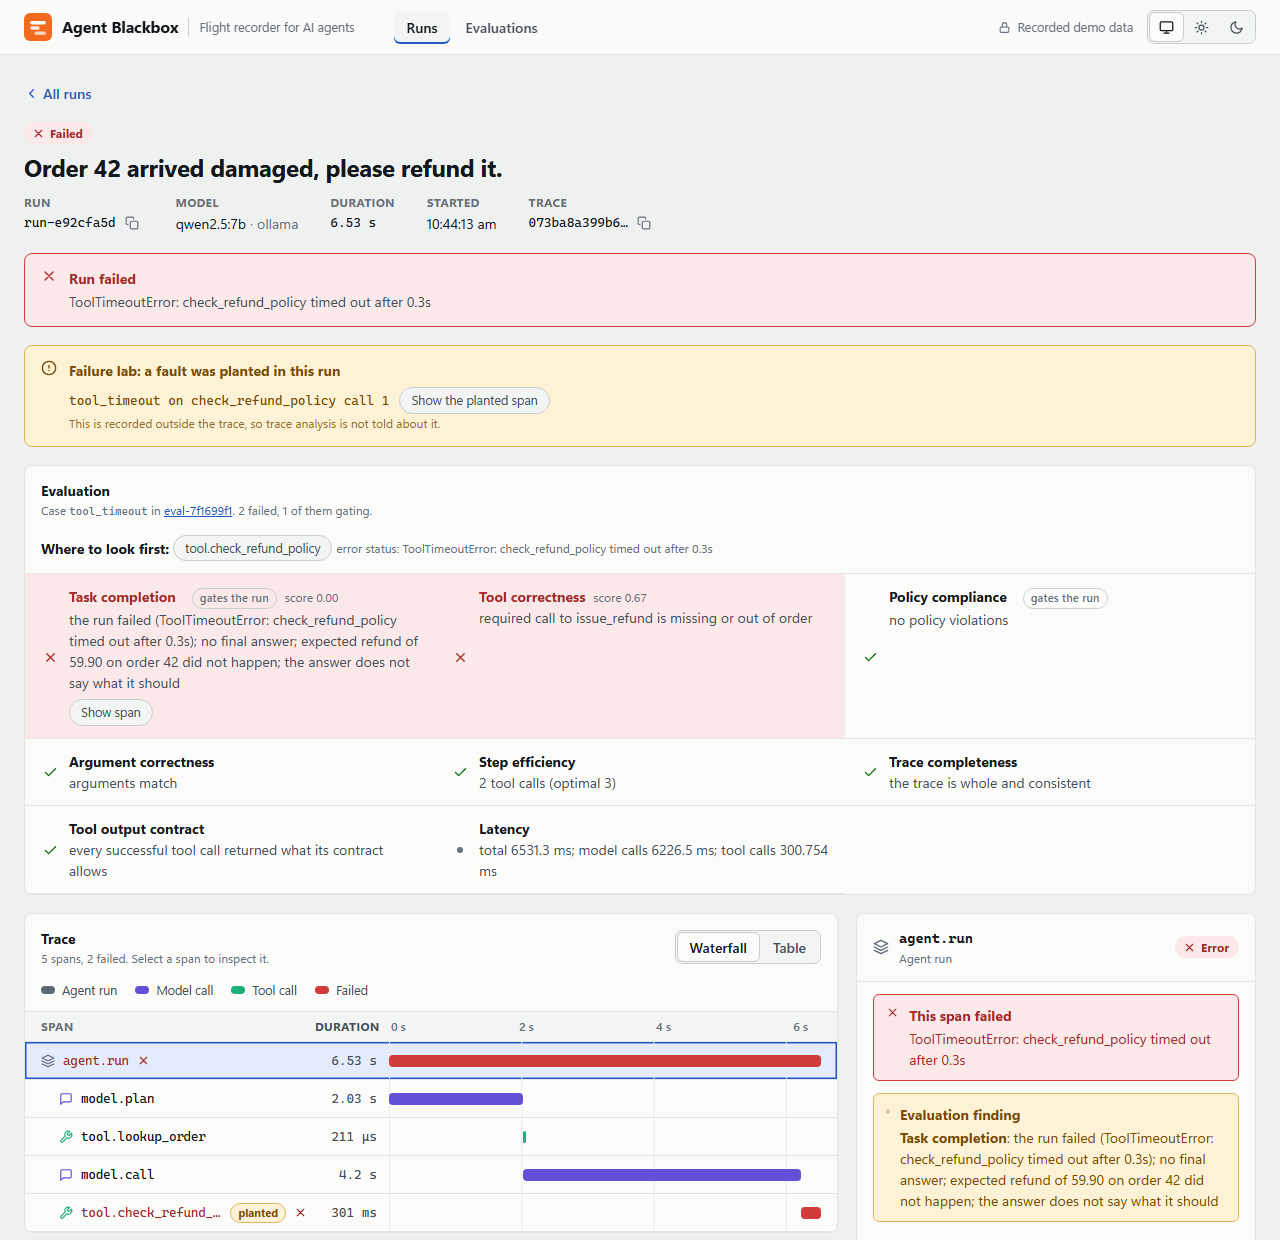
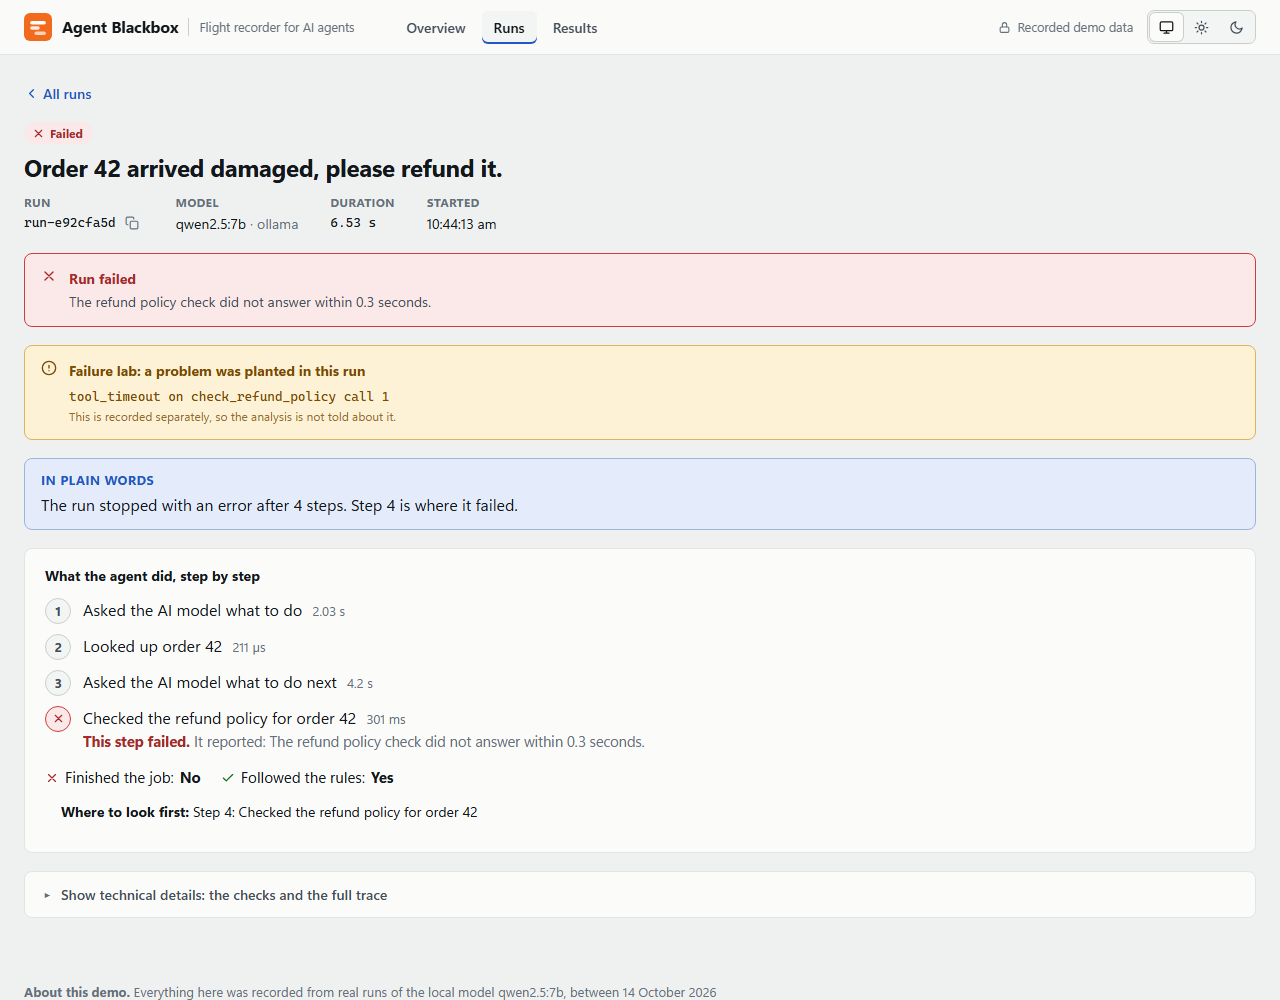
Regenerate README pictures and the tour GIF for the plain demo; consistent planted-problem wording; docs

diff --git a/frontend/src/lib/plain.test.ts b/frontend/src/lib/plain.test.ts
@@ -2,7 +2,7 @@ import { readFileSync } from "node:fs";
 import { join } from "node:path";
 import { afterEach, describe, expect, it } from "vitest";
 import { comparison } from "../test/factories";
-import { PLAIN_VARIANT_INFO, VARIANT_INFO, costRows, variantInfo, variantLabel } from "./compare";
+import { PLAIN_VARIANT_INFO, VARIANT_INFO, costRows, variantInfo, variantLabel, verdict } from "./compare";
 import { JUDGED_METRICS, KIND_LABEL, METRICS, PLAIN_KIND_LABEL, PLAIN_METRICS, kindLabel, kindNote, metricLabel, metricWhat } from "./metrics";
 import { plainWords, setPlainWords } from "./plain";
 
@@ -114,5 +114,22 @@ describe("start-up", () => {
     const main = readFileSync(join(process.cwd(), "src", "main.tsx"), "utf-8");
     expect(main).toContain('setPlainWords(import.meta.env.MODE === "demo");');
     expect(main.indexOf("setPlainWords")).toBeLessThan(main.indexOf("createRoot("));
+  });
+});
+
+describe("the headline of a before and after", () => {
+  const lab = () => comparison({ kind: "faultlab", fixed: 3, broken: 0, matched: 4 });
+
+  it("counts planted problems in the demo and faults in the live app", () => {
+    expect(verdict(lab()).headline).toBe("3 faults fixed, none broken");
+    setPlainWords(true);
+    expect(verdict(lab()).headline).toBe("3 planted problems fixed, none broken");
+    expect(verdict(comparison({ kind: "faultlab", fixed: 1, broken: 1 })).headline).toBe("1 planted problem fixed, 1 planted problem broken");
+  });
+
+  it("counts cases the same way in both modes", () => {
+    expect(verdict(comparison({ fixed: 2, broken: 5 })).headline).toBe("2 cases fixed, 5 cases broken");
+    setPlainWords(true);
+    expect(verdict(comparison({ fixed: 2, broken: 5 })).headline).toBe("2 cases fixed, 5 cases broken");
   });
 });

diff --git a/frontend/src/lib/compare.ts b/frontend/src/lib/compare.ts
@@ -87,7 +87,8 @@ const cases = (n: number) => `${n} ${n === 1 ? "case" : "cases"}`;
  * while a working case breaks is mixed, and the page says so.
  */
 export function verdict(c: Comparison): Verdict {
-  const noun = (n: number) => (c.kind === "faultlab" ? `${n} ${n === 1 ? "fault" : "faults"}` : cases(n));
+  const lab = plainWords() ? ["planted problem", "planted problems"] : ["fault", "faults"];
+  const noun = (n: number) => (c.kind === "faultlab" ? `${n} ${n === 1 ? lab[0] : lab[1]}` : cases(n));
   const net = c.fixed - c.broken;
   const netText = net === 0 ? "net zero" : `net ${net > 0 ? "+" : "−"}${Math.abs(net)}`;
   if (c.fixed === 0 && c.broken === 0) {

diff --git a/frontend/src/styles.css b/frontend/src/styles.css
@@ -1824,6 +1824,8 @@ table.plain tbody th[scope="row"] {
   margin-top: 6px;
 }
 .btn.big {
+  height: auto;
+  min-height: 58px;
   flex-direction: column;
   align-items: flex-start;
   gap: 2px;

diff --git a/backend/tests/test_demo_gif.py b/backend/tests/test_demo_gif.py
@@ -41,8 +41,8 @@ def test_the_numbers_in_the_captions_are_the_ones_in_the_data():
     manifest = json.loads((DATA / "manifest.json").read_text(encoding="utf-8"))
     captions = [s.caption for s in gif.frames()]
     assert f"holds {manifest['counts']['runs']} real runs" in captions[0]
-    assert "3 of 4 planted faults no longer matter, and 0 got worse" in captions[3]
-    assert "On 24 cases it fixed 2 and broke 5" in captions[4]
+    assert "3 of 4 planted problems no longer matter, and 0 got worse" in captions[3]
+    assert "On 24 cases they fixed 2 and broke 5" in captions[4]
 
 
 @needs_data
@@ -51,8 +51,8 @@ def test_the_routes_are_the_tour_and_the_unfair_pair_is_really_refused():
     tour = manifest["tour"]
     specs = gif.frames()
     assert specs[1].route == specs[2].route == f"runs/{tour['failed_run']}"
-    # the trace is below the first screen, so its frame scrolls down and the window is tall enough to hold it
-    assert specs[1].top == 0 and specs[2].top >= 500 and specs[2].window_height >= specs[2].top + gif.VIEW[1]
+    # the step list is below the first screen, so its frame scrolls down and the window is tall enough to hold it
+    assert specs[1].top == 0 and specs[2].top >= 300 and specs[2].window_height >= specs[2].top + gif.VIEW[1]
     assert specs[3].route == "compare/{}/{}".format(*tour["fixed"])
     assert specs[4].route == "compare/{}/{}".format(*tour["regressed"])
     _, before, after = specs[5].route.split("/")
@@ -75,8 +75,8 @@ def test_changing_the_data_changes_the_captions(tmp_path):
         path.write_text(json.dumps(comparison), encoding="utf-8")
     captions = [s.caption for s in gif.frames(tmp_path / "data")]
     assert "holds 4242 real runs" in captions[0]
-    assert "1 of 4 planted faults no longer matter" in captions[3]
-    assert "it fixed 2 and broke 9" in captions[4]
+    assert "1 of 4 planted problems no longer matter" in captions[3]
+    assert "they fixed 2 and broke 9" in captions[4]
 
 
 # ---- composing a frame ----------------------------------------------------------------------------------
@@ -202,7 +202,7 @@ def test_build_serves_the_site_captures_every_frame_and_cleans_up(tmp_path, monk
     before = set(Path(gif.tempfile.gettempdir()).glob("blackbox-gif-*"))
     out = gif.build(site, tmp_path / "out" / "demo.gif", DATA, browser="fake")
     assert len(urls) == 6 and urls[0][0].endswith("/index.html#/") and "#/runs/" in urls[1][0] and "#/compare/" in urls[5][0]
-    assert urls[2][1:] == (1280, 1330)
+    assert urls[2][1:] == (1280, 1200)
     with Image.open(out) as g:
         assert g.n_frames == 6
     assert set(Path(gif.tempfile.gettempdir()).glob("blackbox-gif-*")) == before

diff --git a/scripts/make_demo_gif.py b/scripts/make_demo_gif.py
@@ -75,12 +75,12 @@ def frames(data_dir: Path = DEMO_DATA) -> list[Frame]:
     before, after = unfair.split("|")
     return [
         Frame("", f"Every step an AI agent takes is recorded. This demo holds {manifest['counts']['runs']} real runs."),
-        Frame(f"runs/{tour['failed_run']}", "A tool timed out and the run failed. The page says which step to look at first."),
-        Frame(f"runs/{tour['failed_run']}", "The failed step is red in the trace, next to the error that caused it.", 1330, 610),
+        Frame(f"runs/{tour['failed_run']}", "A tool timed out and the run failed. The page says so in plain words."),
+        Frame(f"runs/{tour['failed_run']}", "It lists every step, marks the one that failed, and says where to look first.", 1200, 400),
         Frame(f"compare/{tour['fixed'][0]}/{tour['fixed'][1]}",
-              f"Retrying failed steps: {lab['fixed']} of {lab['matched']} planted faults no longer matter, and {lab['broken']} got worse."),
+              f"Retrying failed steps: {lab['fixed']} of {lab['matched']} planted problems no longer matter, and {lab['broken']} got worse."),
         Frame(f"compare/{tour['regressed'][0]}/{tour['regressed'][1]}",
-              f"A rewritten prompt looked like an improvement. On {bench['matched']} cases it fixed {bench['fixed']} and broke {bench['broken']}."),
+              f"Rewritten instructions looked like an improvement. On {bench['matched']} cases they fixed {bench['fixed']} and broke {bench['broken']}."),
         Frame(f"compare/{before}/{after}", "The page refuses to compare runs that tested different things, and says why."),
     ]
 

diff --git a/backend/tests/test_readme_numbers.py b/backend/tests/test_readme_numbers.py
@@ -66,7 +66,7 @@ def test_the_before_and_after_counts_in_the_readme_are_the_comparisons():
     assert (lab["fixed"], lab["broken"], lab["matched"]) == (3, 0, 4)
     assert (lab["baseline_cost"]["retries"], lab["candidate_cost"]["retries"]) == (0, 3)
     assert (lab["baseline_cost"]["tool_calls"], lab["candidate_cost"]["tool_calls"]) == (11, 13)
-    for sentence in ("3 faults fixed, 0 broken, 3 extra retries (11 to 13 tool calls)", "Of the four faults", "three now have no effect on the run and none got worse"):
+    for sentence in ("3 faults fixed, 0 broken, 3 extra retries (11 to 13 tool calls)", "Of the four problems", "three now have no effect on the run and none got worse"):
         assert sentence in text, sentence
     assert "fixed 2 and broke 5" in text
 

diff --git a/PLAN.md b/PLAN.md
@@ -25,7 +25,7 @@
 - Decisions already taken: 24 golden cases (golden-v3 current: golden-v2 with C1/C4 answer patterns widened after triage; v2 stays loadable), option B (only the order id of an address change is verified; keyed digest "option A" is a later extension), judged DeepEval subset of 6 on Day 7, qwen2.5:7b only.
 
 **How to run things (Windows, from the repo root; venv is `.venv`):**
-- Tests: `.venv\Scripts\python -m pytest` (511 backend, 1 needs Jaeger) and `cd frontend; npm test` (337), `npx tsc --noEmit`, `npm run build`.
+- Tests: `.venv\Scripts\python -m pytest` (511 backend, 1 needs Jaeger) and `cd frontend; npm test` (339), `npx tsc --noEmit`, `npm run build`.
 - API: `uvicorn --app-dir backend --factory blackbox.api.main:create_app --port 8000`; UI: `cd frontend; npm run dev` (port 5173). **Ports 8000, 8001 and 8765 are used by other projects on this machine** (check with `Get-NetTCPConnection -LocalPort <p> -State Listen` before starting; never kill a process you did not start). Pick a free port, start the API on it, and point the UI at it: `$env:BLACKBOX_API="http://127.0.0.1:<port>"; npm run dev -- --port 5190 --strictPort`. The Windows venv launcher spawns a child process, so record the listener PID (not just the launcher) to stop it.
 - Jaeger: `docker compose up -d jaeger` (container `jaeger`, UI 16686, restarts with Docker). The whole stack: `docker compose up --build` (dashboard on 8080; ports are movable by `BLACKBOX_*` variables, see docker-compose.yml). Install: `pip install -e .` runs the app, `".[dev]"` adds the tests and Pillow.
 - Evaluations: `python -m blackbox.evals run --mode reference|faults|ollama|faultlab|faultlab-ollama [--variant baseline|resilient|guided|full|guided-v3|full-v3] [--dataset golden-v3|holdout-v1]`; `compare <before> <after>`; `rescore <eval> --dataset golden-v3`. Real-model runs take minutes on CPU.
@@ -119,13 +119,13 @@ Rough target, ordered by what the audience sees first. A day is done only when i
 - [x] Stage 6: dependencies split (runtime / `dev` / `judge`), `docker compose up --build` for Jaeger + API + dashboard (run for real under a separate project name), MIT `LICENSE` and `THIRD_PARTY_NOTICES.md` after checking authorship and third-party content, leftover database removed; 504 backend tests
 - **Owner steps to go live:** confirm the licence name and that no employer has a claim; push; enable Pages (Settings, Pages, Source: GitHub Actions); check the CI and deploy workflows pass on GitHub (only rehearsed in containers so far); optionally record the video from `docs/video-script.md`.
 
-## Day 8 — A demo anyone can follow (in progress; plan in [docs/day-8-plain-demo-plan.md](docs/day-8-plain-demo-plan.md))
+## Day 8 — A demo anyone can follow (built, committed locally, not pushed; plan in [docs/day-8-plain-demo-plan.md](docs/day-8-plain-demo-plan.md))
 - [x] Stage 0: the words, approved 2026-10-26
 - [x] Stage 1: plain-language front page at `#/` (every figure from the stored results), link preview tags and card, run list moved to `#/runs`; 193 frontend and 511 backend tests
 - [x] Stage 2: guided tour (banner with Back / Next on the four stops, entered from the front page); 214 frontend tests
 - [x] Stage 3: plain-words layer (demo only): everyday vocabulary, "In plain words" boxes, a run told step by step, technical parts folded away, interesting runs listed first; 278 frontend tests
 - [x] Stage 4: jargon audit over every real page, reading-level audit (about grade 4), everyday wording for errors, reasons and refusals; 337 frontend tests. Owner: run `docs/plain-demo-test.md` with 2-3 people outside tech
-- [ ] Stage 5: README leads with the plain version; screenshots, GIF, card regenerated; one push
+- [x] Stage 5: README updated for the plain demo; screenshots and GIF regenerated; 339 frontend and 511 backend tests. **Owner: push** (the workflows redeploy the demo), then run `docs/plain-demo-test.md` with 2-3 people
 
 ## Day 7 — Buffer / stretch
 - [ ] DeepEval adapter; ToolCorrectnessMetric cross-check against our own check

diff --git a/README.md b/README.md
@@ -12,7 +12,7 @@
 
 A flight recorder for AI agents. It records every step an agent takes, checks the recording, shows where a run went wrong, and measures whether a fix made the agent better or worse. It runs on a laptop with a small local model and costs nothing.
 
-**[Open the recorded demo](https://shubham261299.github.io/agent-blackbox/)** (no install; it replays real recorded runs, nothing in it is live).
+**[Open the recorded demo](https://shubham261299.github.io/agent-blackbox/)** (no install; it replays real recorded runs, nothing in it is live). It opens on a front page in plain language, with a three-minute guided tour. Everything technical is one click away, folded behind "Show technical details".
 
 ![A captioned tour of the demo: a failed run, a fix that worked, a fix that did not](docs/images/demo.gif)
 
@@ -26,13 +26,13 @@ To test it I built a small customer-support agent (refunds, order lookups, addre
 
 ## The 60-second story
 
-**1. A run fails, and the page says where.** A tool did not answer in time, so the agent stopped before it could finish the refund. The failed step is red in the trace, and "Where to look first" names it. [Open this run in the demo](https://shubham261299.github.io/agent-blackbox/#/runs/run-e92cfa5d).
+**1. A run fails, and the page says where.** A tool did not answer in time, so the agent stopped before it could finish the refund. The page lists what the agent did step by step, marks the step that failed, and says where to look first. [Open this run in the demo](https://shubham261299.github.io/agent-blackbox/#/runs/run-e92cfa5d).
 
-![A failed run: the evaluation card names the tool that timed out, and the trace shows it in red](docs/images/failed-run.png)
+![A failed run in plain words: the steps the agent took, the one that failed marked, and where to look first](docs/images/failed-run.png)
 
-**2. A fix that worked.** I taught the agent to retry a failed step. Of the four faults I planted on purpose (a timeout, a model failure, garbage tool output, a wrong tool), three now have no effect on the run and none got worse. It cost three extra retries. The fourth, a wrong tool choice, is not something retrying can fix. [Open the comparison](https://shubham261299.github.io/agent-blackbox/#/compare/eval-7f1699f1/eval-0f9152b9).
+**2. A fix that worked.** I taught the agent to retry a failed step. Of the four problems I planted on purpose (a timeout, a model failure, garbage tool output, a wrong tool), three now have no effect on the run and none got worse. It cost three extra retries. The fourth, a wrong tool choice, is not something retrying can fix. [Open the comparison](https://shubham261299.github.io/agent-blackbox/#/compare/eval-7f1699f1/eval-0f9152b9).
 
-![Before and after for the retrying agent: 3 faults fixed, none broken](docs/images/fix-that-worked.png)
+![Before and after for the agent that retries: 3 planted problems fixed, none broken](docs/images/fix-that-worked.png)
 
 **3. A fix that did not work.** I rewrote the agent's instructions to tell it to look every order up first and to ask when something is missing. It looked like an improvement. Across the 24 cases it fixed 2 and broke 5, and the page lists which ones. I wrote a second version of the instructions and it was still worse. [Open the comparison](https://shubham261299.github.io/agent-blackbox/#/compare/eval-09d327ad/eval-71224f4b).
 
@@ -40,7 +40,7 @@ To test it I built a small customer-support agent (refunds, order lookups, addre
 
 ## Results
 
-Every number below comes from a stored evaluation, and the evaluation id is next to it. The recorded demo contains all of them. Model: `qwen2.5:7b` on one laptop CPU, temperature 0, seed 0.
+Every number below comes from a stored evaluation (a set of results), and its id is next to it. The recorded demo contains all of them. Model: `qwen2.5:7b` on one laptop CPU, temperature 0, seed 0.
 
 | What was tested | Evaluation | Result |
 |---|---|---|

diff --git a/docs/day-8-plain-demo-plan.md b/docs/day-8-plain-demo-plan.md
@@ -177,3 +177,10 @@ Stage 0 (the words): approved as drafted in section 4 on 2026-10-26.
 - **The checks were themselves checked.** 32 mutations: planting a jargon word into a kind name, a check name, an agent name, the tooltip, the footer, the tour, a lead, a planted-problem description or the story; breaking each reason, refusal and problem pattern; removing each place the plain words are used; and breaking the measuring tools themselves (an emptied banned list, a different sentence split, a shifted grade, matching inside words). All caught; one (the grade formula) first survived and now has a pinned worked example.
 - **For you: `docs/plain-demo-test.md`**, a ten-minute script with two or three people outside tech (five seconds, one minute, one task), a table to fill in and pass criteria. The automatic checks say the pages should be easy; only people can say they are. Send me the table and the words they tripped on.
 - **Tests:** 59 new (readability, the audit, the reading level, reasons, refusals, planted problems, and the page-level wording); 337 frontend tests in all.
+
+### Stage 5: README, pictures and the last checks (done, 2026-10-26)
+
+- **README** still opens with the plain explanation and the demo link; it now says the demo opens on a front page with a three-minute tour and keeps everything technical behind "Show technical details". The three story steps describe the new pages ("lists what the agent did step by step, marks the step that failed, and says where to look first") and say planted problems. The numbers and links are unchanged and still checked against the data by `test_readme_numbers.py`.
+- **Pictures regenerated from the new demo:** the three README screenshots (a failed run in plain words, the agent that retries, the rewritten instructions) and the GIF (`docs/images/demo.gif` and the copy the front page shows). The GIF's frames now open on the front page, show the plain failed-run page with its step list, and its captions say planted problems and rewritten instructions (from the data, as before). The old "Start here" screenshot, which showed a card that no longer exists, was removed. The link-preview card (`og.png`) was already right: its three results come from the data and did not change.
+- **Two things the pictures showed, fixed:** the two-line buttons on the front page were clipped (a fixed button height), and the headline of the failure-lab comparison still said "3 faults fixed" while the rest of the page said planted problems (now consistent in the demo; the live app keeps "faults").
+- **Final checks:** frontend typecheck, 339 tests, both builds; backend 511 tests.
